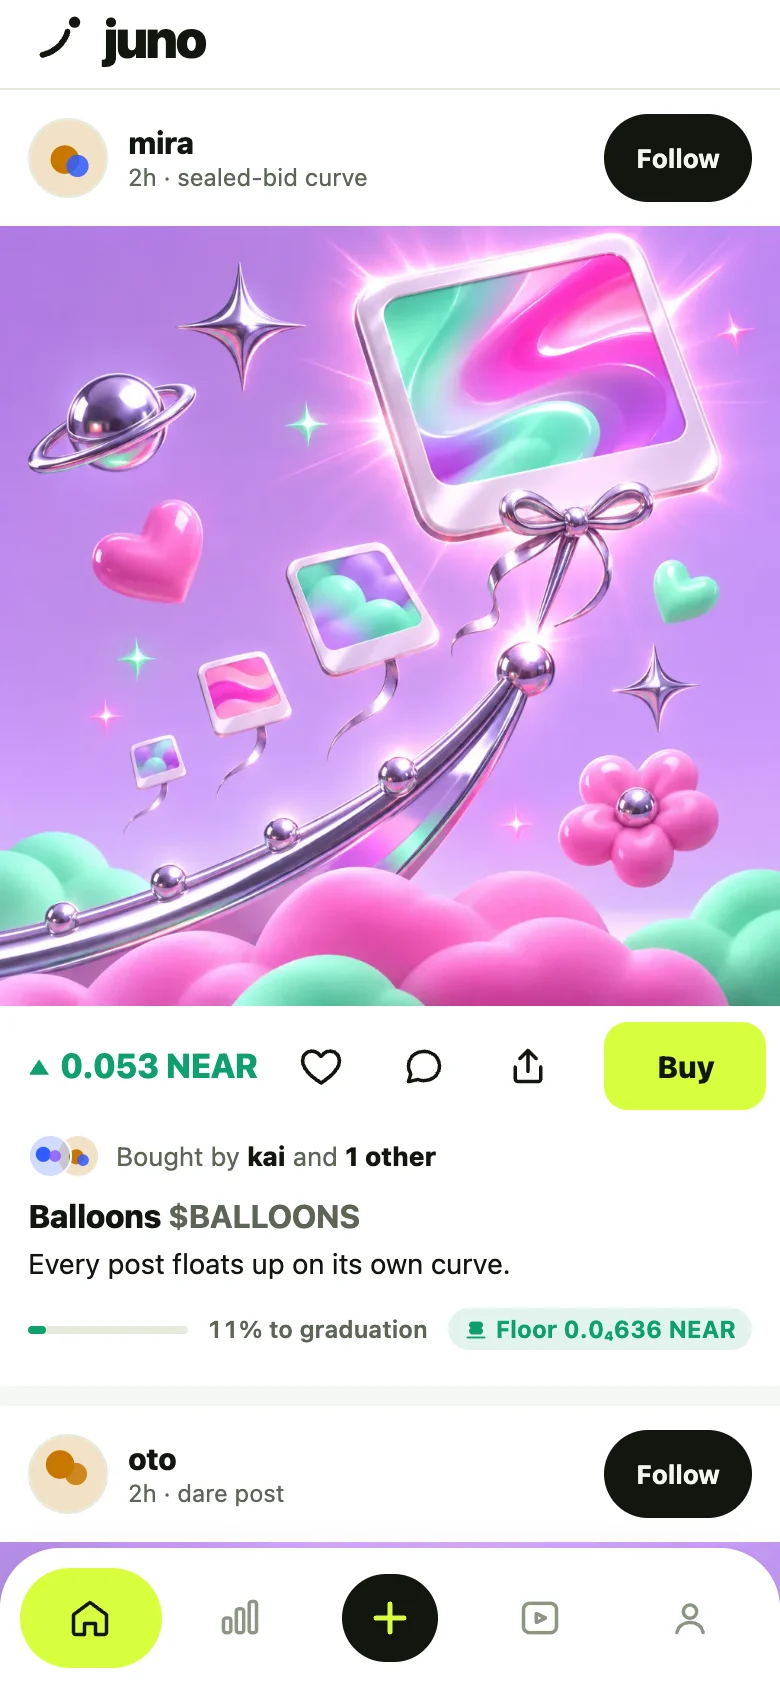
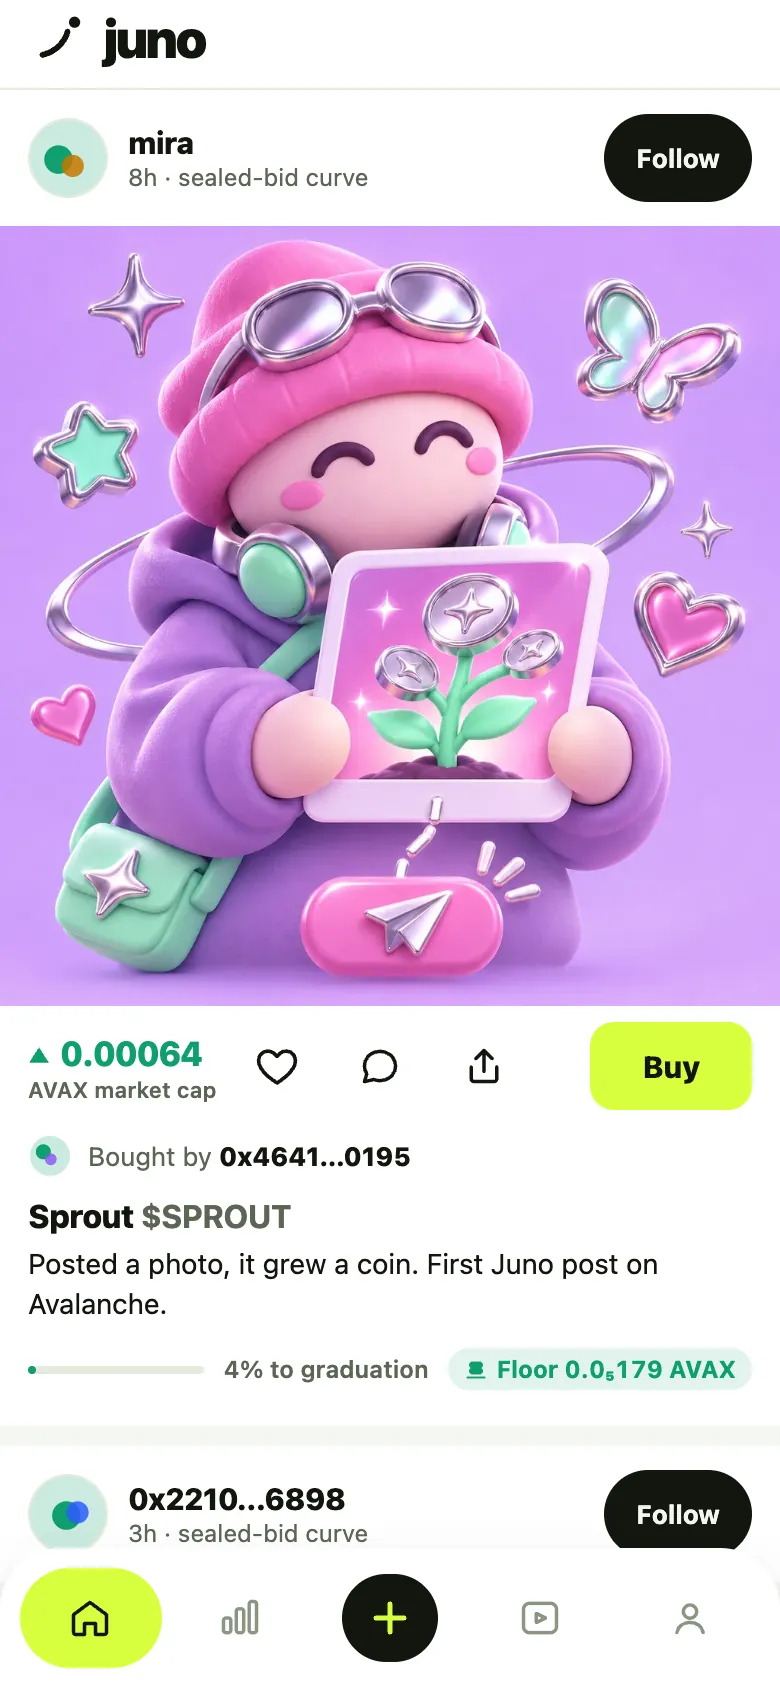
Landing: Get the app (iOS Simulator download with size, version, one-line install with Copy and SHA-256 from the download manifest; Expo Go QR that says Setup required until a real update link exists; the web app), linked from the nav and the app section; hero sub-line says who it is for and why Ava

diff --git a/web/components/Landing.tsx b/web/components/Landing.tsx
@@ -1,11 +1,12 @@
 import { useRouter } from "expo-router";
-import React, { useEffect, useMemo } from "react";
+import React, { useEffect, useMemo, useState } from "react";
 
 import type { Coin } from "../lib/api";
-import { explorer, FACTORY, NETWORK_NAME } from "../lib/chain";
+import { explorer, FACTORY } from "../lib/chain";
 import { DEPLOYMENT } from "../lib/deployment";
 import { useBlockCadence } from "../lib/cadence";
 import { loadMarkets } from "../lib/markets";
+import { qrDataUrl } from "../lib/qr";
 import { useApi } from "../lib/useApi";
 import { LANDING_CSS } from "./landing-css";
 
@@ -120,6 +121,88 @@ function External() {
   );
 }
 
+/** `/download/manifest.json`, written by `web/scripts/build-ios-sim.sh` and `web/scripts/publish-expo.sh`. */
+type Manifest = {
+  ios?: { file: string; bytes: number; sha256: string; version: string; built: string; bundleId: string };
+  expo?: { url: string | null };
+};
+
+const mb = (bytes: number) => `${(bytes / 1_048_576).toFixed(1)} MB`;
+
+/** Get the app: the iOS Simulator build, Expo Go (only once a real update link exists) and the web app. */
+function GetApp({ go }: { go: (path: string) => (e: React.MouseEvent) => void }) {
+  const [m, setM] = useState<Manifest | null>(null);
+  const [err, setErr] = useState<string | null>(null);
+  const [qr, setQr] = useState<string | null>(null);
+  const [copied, setCopied] = useState(false);
+  useEffect(() => {
+    fetch("/download/manifest.json", { cache: "no-store" })
+      .then((r) => (r.ok ? r.json() : Promise.reject(new Error(`HTTP ${r.status}`))))
+      .then((j: Manifest) => setM(j))
+      .catch((e: Error) => setErr(e.message));
+  }, []);
+  const expo = m?.expo?.url ?? null;
+  useEffect(() => {
+    if (expo) qrDataUrl(expo).then(setQr).catch(() => setQr(null));
+  }, [expo]);
+  const ios = m?.ios;
+  const install = ios ? `xcrun simctl install booted ${ios.file.replace(/-iOS-Simulator\.zip$/, "")}.app` : "";
+  const copy = () => {
+    navigator.clipboard?.writeText(install).then(() => {
+      setCopied(true);
+      setTimeout(() => setCopied(false), 1600);
+    }).catch(() => {});
+  };
+
+  return (
+    <section className="jl-sec" id="get-app" aria-labelledby="jl-get-title">
+      <div className="jl-wrap">
+        <header className="jl-head">
+          <p className="jl-lbl">Get the app</p>
+          <h2 id="jl-get-title">Juno is a phone app.</h2>
+        </header>
+        <div className="jl-get">
+          <article>
+            <h3>iOS Simulator</h3>
+            <p className="jl-get-meta">{ios ? `For a Mac with Xcode · ${mb(ios.bytes)} · v${ios.version}` : err ? "Download unavailable" : "Loading…"}</p>
+            {ios ? (
+              <>
+                <a className="jl-pill jl-pill-ink" href={`/download/${ios.file}`} download>Download for iOS Simulator</a>
+                <div className="jl-cmd">
+                  <code>{install}</code>
+                  <button type="button" onClick={copy} aria-label="Copy the install command">{copied ? "Copied" : "Copy"}</button>
+                </div>
+                <p className="jl-get-note">Unzip, open a simulator, run the line. <a href={`/download/${ios.file}.sha256`} title={ios.sha256}>SHA-256 {ios.sha256.slice(0, 12)}…</a></p>
+              </>
+            ) : err ? (
+              <p className="jl-err" role="alert">Could not load the download list: {err}</p>
+            ) : (
+              <span className="jl-chip jl-skel" />
+            )}
+          </article>
+          <article>
+            <h3>Expo Go</h3>
+            <p className="jl-get-meta">Scan with your phone&apos;s camera</p>
+            {expo && qr ? (
+              <div className="jl-qr">
+                <img src={qr} width={148} height={148} alt="QR code that opens Juno in Expo Go" />
+                <a href={expo}>{expo.replace(/^exp:\/\//, "")}</a>
+              </div>
+            ) : (
+              <p className="jl-setup"><b>Setup required</b><span>The Expo Go link appears here once Juno is published.</span></p>
+            )}
+          </article>
+          <article>
+            <h3>In your browser</h3>
+            <p className="jl-get-meta">Nothing to install</p>
+            <a href="/social" onClick={go("/(tabs)/social")} className="jl-pill jl-pill-lime">Open Juno</a>
+          </article>
+        </div>
+      </div>
+    </section>
+  );
+}
+
 export default function Landing() {
   const router = useRouter();
   const markets = useApi(() => loadMarkets(), []);
@@ -170,6 +253,7 @@ export default function Landing() {
         <a href="/" className="jl-brand" aria-label="Juno home"><Mark size={26} /><span>juno</span></a>
         <nav aria-label="Primary">
           <a href="#how" onClick={jump("how")} className="jl-link">How it works</a>
+          <a href="#get-app" onClick={jump("get-app")} className="jl-link">Get the app</a>
           <a href="/social" onClick={go("/(tabs)/social")} className="jl-pill jl-pill-white">Open app</a>
         </nav>
       </header>
@@ -194,11 +278,7 @@ export default function Landing() {
             <h1 id="jl-title">Every post<br />is a coin<span className="jl-dot">.</span></h1>
             <a href="/social" onClick={go("/(tabs)/social")} className="jl-pill jl-pill-lime jl-pill-xl">Open Juno</a>
             <p className="jl-sub">
-              {posts
-                ? <>Live on {NETWORK_NAME}. {posts.length} posts trading, each its own coin, with test AVAX only.</>
-                : failed
-                  ? <>Live on {NETWORK_NAME}, with test AVAX only.</>
-                  : <>A social feed on {NETWORK_NAME}, with test AVAX only.</>}
+              Post a photo and fans can buy in. Each post is its own coin with a floor holders can always redeem, final in about a second on Avalanche. Fuji testnet, no real money.
             </p>
           </div>
         </section>
@@ -289,7 +369,10 @@ export default function Landing() {
                 <li><b>Bought by</b><span>names from the contract&apos;s own fill log</span></li>
                 <li><b>Final in 0.9 s</b><span>every trade shows how long Avalanche took</span></li>
               </ul>
-              <a href="/social" onClick={go("/(tabs)/social")} className="jl-more">Scroll the feed <Arrow /></a>
+              <div className="jl-more-row">
+                <a href="/social" onClick={go("/(tabs)/social")} className="jl-more">Scroll the feed <Arrow /></a>
+                <a href="#get-app" onClick={jump("get-app")} className="jl-more">Get the app <Arrow /></a>
+              </div>
             </div>
             <figure className="jl-phone-fig">
               <div className="jl-phone">
@@ -301,6 +384,8 @@ export default function Landing() {
             </figure>
           </div>
         </section>
+
+        <GetApp go={go} />
 
         <section className="jl-sec" id="tech" aria-labelledby="jl-tech-title">
           <div className="jl-wrap">

diff --git a/web/components/landing-css.ts b/web/components/landing-css.ts
@@ -24,7 +24,7 @@ export const LANDING_CSS = `
   --mono: "Space Mono", ui-monospace, "SF Mono", Menlo, monospace;
   --ease: cubic-bezier(.22, 1, .36, 1);
   --gut: clamp(16px, 4vw, 48px);
-  flex: 1; min-height: 0; height: 100%; width: 100%;
+  position: relative; flex: 1; min-height: 0; height: 100%; width: 100%;
   overflow-y: auto; overflow-x: hidden; scroll-behavior: smooth;
   background: var(--ink); color: var(--on-ink);
   font-family: var(--sans); font-size: 16px; line-height: 1.5;
@@ -135,7 +135,7 @@ a.jl-acct:hover { text-decoration: underline; text-underline-offset: 3px; }
 .jl-skel { background: linear-gradient(90deg, rgba(255,255,255,.55), rgba(255,255,255,.9), rgba(255,255,255,.55)); background-size: 200% 100%; animation: jl-shimmer 1.4s linear infinite; box-shadow: none; }
 @keyframes jl-shimmer { to { background-position: -200% 0; } }
 .jl-empty { grid-column: 1 / -1; padding: 22px; border-radius: 22px; background: var(--surface); color: var(--muted); }
-.jl-err { padding: 18px 20px; border-radius: 18px; background: ${c.negSoft}; color: ${c.neg}; font-weight: 600; overflow-wrap: anywhere; }
+.jl .jl-err { padding: 18px 20px; border-radius: 18px; background: ${c.negSoft}; color: ${c.neg}; font-weight: 600; overflow-wrap: anywhere; }
 .jl-empty, .jl-err { display: flex; align-items: center; gap: 16px; }
 .jl-obj { flex: none; width: 64px; height: 64px; object-fit: contain; user-select: none; pointer-events: none; }
 
@@ -201,6 +201,32 @@ a.jl-acct:hover { text-decoration: underline; text-underline-offset: 3px; }
 .jl-tech a { color: var(--text); font-weight: 600; text-decoration: underline; text-decoration-color: var(--line2); text-underline-offset: 3px; overflow-wrap: anywhere; }
 .jl-tech a:hover { text-decoration-color: var(--text); }
 
+/* get the app */
+#get-app { padding-top: 112px; }
+.jl-get { display: grid; grid-template-columns: repeat(3, minmax(0, 1fr)); gap: 16px; }
+.jl-get article { display: flex; flex-direction: column; align-items: flex-start; gap: 12px; min-width: 0; padding: 28px; border-radius: 26px; background: var(--surface); box-shadow: 0 1px 0 rgba(42,51,38,.04), 0 10px 30px -20px rgba(42,51,38,.3); }
+.jl-get h3 { font-weight: 800; font-size: 21px; letter-spacing: -.03em; line-height: 1.15; }
+.jl-get-meta { color: var(--muted); font-size: 15px; margin-top: -6px !important; }
+.jl-get .jl-pill { margin-top: 4px; }
+.jl-pill-ink { background: var(--ink); color: var(--on-ink); }
+.jl-pill-ink:hover { background: var(--ink2); }
+.jl-cmd { display: flex; align-items: center; gap: 8px; width: 100%; padding: 6px 6px 6px 12px; border-radius: 14px; background: var(--alt); }
+.jl-cmd code { flex: 1; min-width: 0; padding: 0; background: none; font-size: 12.5px; overflow-wrap: anywhere; }
+.jl-cmd button { flex: none; min-height: 36px; padding: 0 14px; border: 0; border-radius: 10px; background: var(--surface); color: var(--text); font: 700 13px var(--sans); cursor: pointer; }
+.jl-cmd button:hover { background: var(--paper); }
+.jl-cmd button:focus-visible { outline: 3px solid ${c.focus}; outline-offset: 2px; }
+.jl-get-note { font-size: 13.5px; color: var(--muted); }
+.jl-get-note a { font-family: var(--mono); font-size: 12.5px; color: var(--text); text-underline-offset: 3px; }
+.jl-get .jl-skel { width: 100%; min-height: 60px; }
+.jl-get .jl-err { font-size: 14px; }
+.jl-qr { display: grid; gap: 10px; justify-items: start; }
+.jl-qr img { width: 148px; height: 148px; border-radius: 14px; box-shadow: 0 0 0 1px var(--line); }
+.jl-qr a { font-family: var(--mono); font-size: 12px; color: var(--muted); overflow-wrap: anywhere; }
+.jl .jl-setup { display: grid; gap: 4px; width: 100%; padding: 16px 18px; border-radius: 18px; border: 1.5px dashed var(--line2); }
+.jl-setup b { font-weight: 800; font-size: 15px; }
+.jl-setup span { font-size: 14px; color: var(--muted); }
+.jl-more-row { display: flex; flex-wrap: wrap; gap: 4px 28px; }
+
 /* end + footer */
 .jl-end { background: var(--ink); padding: 120px 0 40px; position: relative; }
 .jl-end::before { content: ""; position: absolute; left: 0; right: 0; top: -1px; height: 14px; background: var(--sage); clip-path: ${TEAR_EDGE}; rotate: 180deg; }
@@ -221,6 +247,7 @@ a.jl-acct:hover { text-decoration: underline; text-underline-offset: 3px; }
 @media (max-width: 1080px) {
   .jl-tape-row { grid-template-columns: repeat(2, minmax(0, 1fr)); }
   .jl-tech { grid-template-columns: repeat(2, minmax(0, 1fr)); }
+  .jl-get { grid-template-columns: repeat(2, minmax(0, 1fr)); }
   .st-camera { right: 30%; top: 9%; }
 }
 @media (max-width: 860px) {
@@ -267,6 +294,9 @@ a.jl-acct:hover { text-decoration: underline; text-underline-offset: 3px; }
   .st-phone-coin { display: none; }
   .jl-tech { grid-template-columns: 1fr; }
   .jl-tech article { padding: 22px; }
+  .jl-get { grid-template-columns: 1fr; }
+  .jl-get article { padding: 22px; }
+  #get-app { padding-top: 88px; }
   #tech { padding-top: 88px; padding-bottom: 104px; }
   .jl-end { padding-top: 96px; }
 }

diff --git a/web/lib/qr.web.ts b/web/lib/qr.web.ts
@@ -1,0 +1,6 @@
+import QRCode from "qrcode";
+
+/** A QR code for `text` as a data: URL, drawn in Juno ink on white. Web only (the landing page). */
+export function qrDataUrl(text: string): Promise<string> {
+  return QRCode.toDataURL(text, { margin: 1, width: 360, color: { dark: "#12150E", light: "#ffffff" } });
+}

diff --git a/web/lib/qr.ts b/web/lib/qr.ts
@@ -1,0 +1,4 @@
+/** Native builds never render the landing page, so they carry no QR encoder. */
+export function qrDataUrl(_text: string): Promise<string> {
+  return Promise.reject(new Error("QR codes are drawn on the web landing only"));
+}
